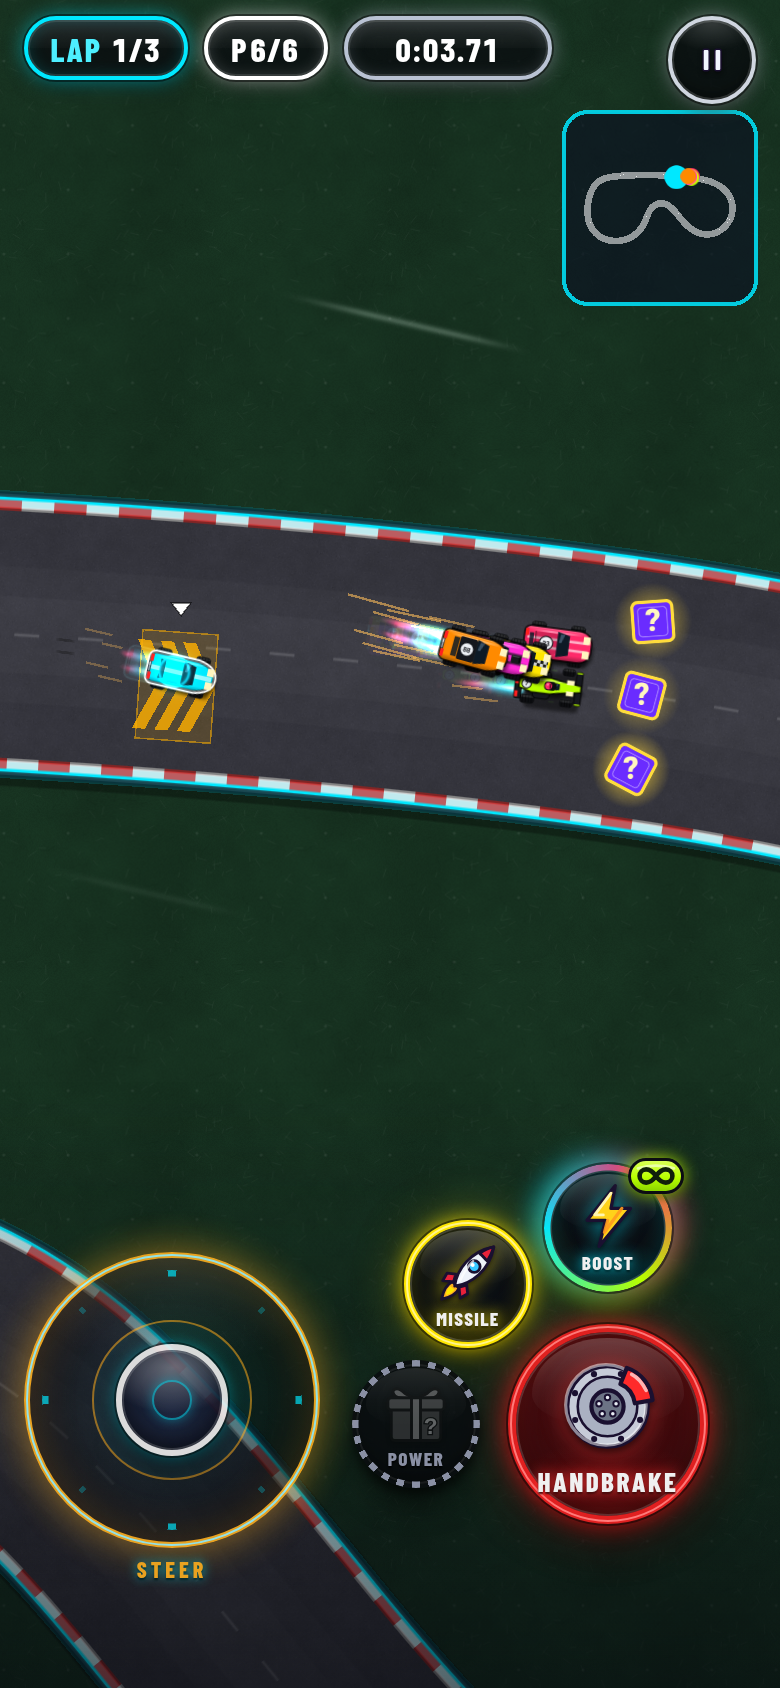
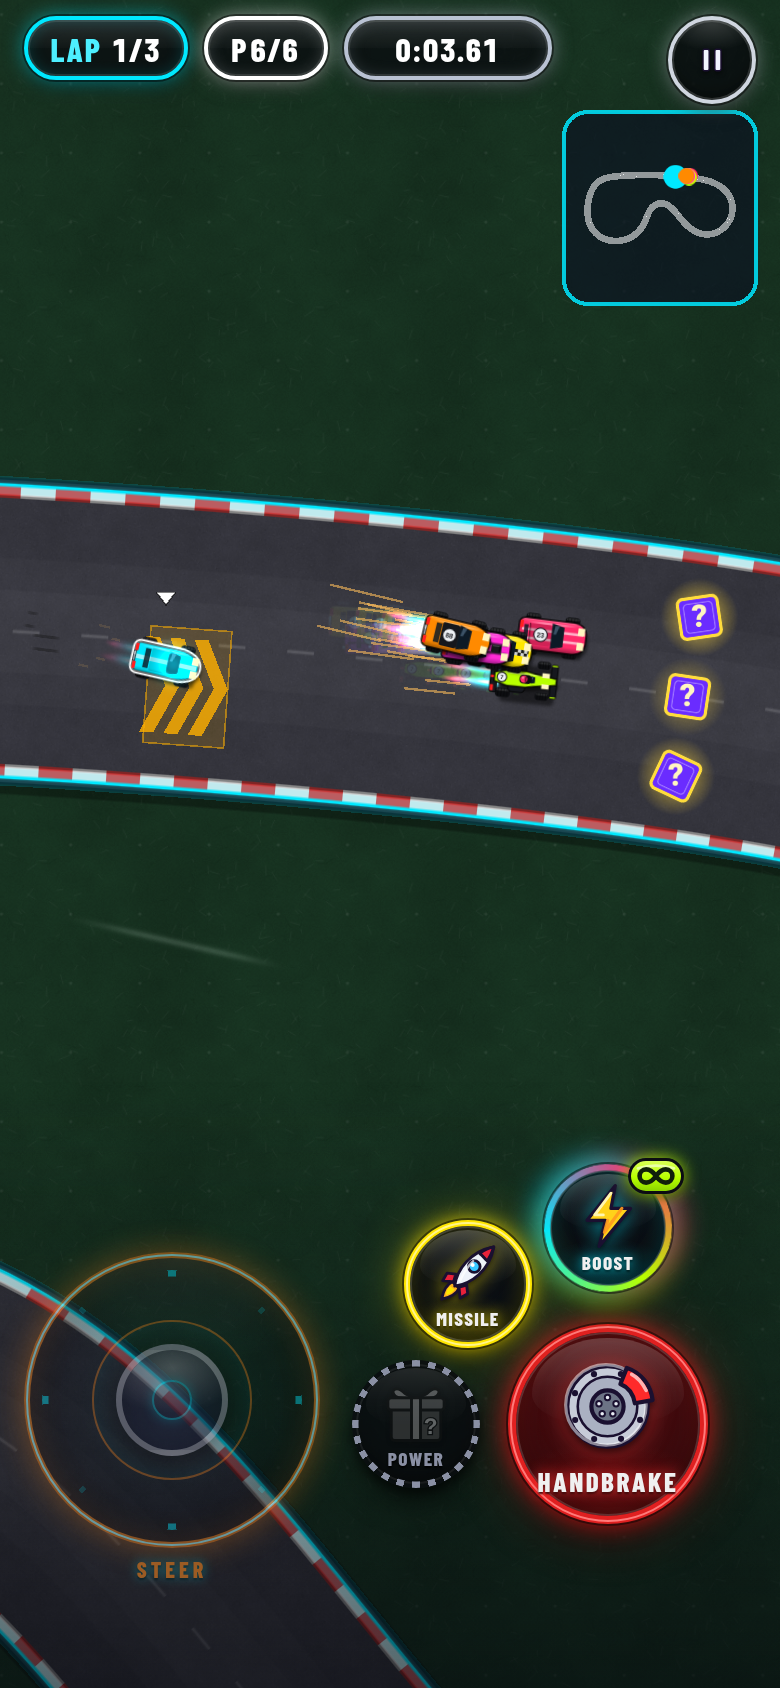
Thumb-off: GD orange, dimmed breathing stick, 350 ms flare, cyan regain flash; steerOff/steerOn sfx

diff --git a/css/style.css b/css/style.css
@@ -386,13 +386,16 @@ canvas.podium { display: block; width: 100%; height: 200px; }
 }
 .tc-aim-label { position: absolute; left: 50%; bottom: -16px; transform: translateX(-50%); font: 900 9px/1 var(--font-display); letter-spacing: 0.12em; color: #00e8ff; pointer-events: none; }
 #app.landscape .tc-aim-label { display: none; }
-/* thumb off the steer ring mid-race: amber until the next touch (3 quick pulses first) + a ghost ring at the lift point */
-.tc-aim-pad.lost { opacity: 0.9; border-color: #ffb020; box-shadow: 0 0 20px rgba(255,176,32,0.6), inset 0 0 22px rgba(255,176,32,0.22); animation: tcLost 0.3s ease-in-out 6 alternate; }
-.tc-aim-pad.lost .tc-aim-ring { border-color: rgba(255,176,32,0.6); }
-.tc-aim-pad.lost .tc-aim-label { color: #ffb020; }
-@keyframes tcLost { from { box-shadow: 0 0 6px rgba(255,176,32,0.3); } to { box-shadow: 0 0 34px rgba(255,176,32,0.95), inset 0 0 26px rgba(255,176,32,0.35); } }
-.tc-aim-ghost { position: absolute; border-radius: 50%; box-sizing: border-box; border: 3px solid #ffb020; box-shadow: 0 0 18px rgba(255,176,32,0.7); pointer-events: none; z-index: 2; animation: tcGhost 0.7s ease-out forwards; }
-@keyframes tcGhost { from { opacity: 1; transform: scale(1); } to { opacity: 0; transform: scale(1.35); } }
+/* thumb off the steer ring mid-race (GD spec): orange #ff8a1f (never MISSILE yellow), stick dimmed to 55 %, knob glow
+   off, ring breathing at 1 Hz until the next touch; a one-off 1.4x flare at the lift point; 120 ms cyan flash on regain */
+.tc-aim-pad.lost { opacity: 0.55; border-color: #ff8a1f; box-shadow: 0 0 18px rgba(255,138,31,0.6), inset 0 0 20px rgba(255,138,31,0.2); animation: tcLost 0.5s ease-in-out infinite alternate; }
+.tc-aim-pad.lost .tc-aim-ring { border-color: rgba(255,138,31,0.6); }
+.tc-aim-pad.lost .tc-aim-knob { box-shadow: 0 2px 8px rgba(0,0,0,0.5); border-color: rgba(242,246,255,0.5); }
+.tc-aim-pad.lost .tc-aim-label { color: #ff8a1f; }
+@keyframes tcLost { from { border-color: rgba(255,138,31,0.5); box-shadow: 0 0 6px rgba(255,138,31,0.25); } to { border-color: rgba(255,138,31,1); box-shadow: 0 0 22px rgba(255,138,31,0.8), inset 0 0 22px rgba(255,138,31,0.3); } }
+.tc-aim-pad.regain { border-color: #7ff6ff; box-shadow: 0 0 30px rgba(0,232,255,0.95), inset 0 0 26px rgba(0,232,255,0.4); transition: none; }
+.tc-aim-ghost { position: absolute; border-radius: 50%; box-sizing: border-box; border: 3px solid #ff8a1f; box-shadow: 0 0 18px rgba(255,138,31,0.7); pointer-events: none; z-index: 2; animation: tcGhost 0.35s ease-out forwards; }
+@keyframes tcGhost { from { opacity: 1; transform: scale(1); } to { opacity: 0; transform: scale(1.4); } }
 
 /* action buttons: the element is the round hit area (visual + up to 12 px, never overlapping a neighbour); .act-vis is the visible disc (--d) */
 .act {

diff --git a/js/input.js b/js/input.js
@@ -1,3 +1,4 @@
+import { sfx } from './audio.js';
 /**
  * Input (v53 'controls'): auto-throttle, so the player only steers, brakes and fires.
  * Touch (mobile-first, see js/controls.js for the data-driven layout):
@@ -69,7 +70,7 @@ export function createInput() {
     const knob = document.getElementById('aim-knob');
     const zone = document.getElementById('steer-zone');
     if (!root || !knob) return;
-    let pid = null, cx = 0, cy = 0, sx = 0, sy = 0; // ring centre (client px), smoothed unit vector
+    let pid = null, cx = 0, cy = 0, sx = 0, sy = 0, regainT = 0; // ring centre (client px), smoothed unit vector
     const DEAD = 0.08;
     const radius = () => Math.max(1, root.clientWidth / 2);
     function setKnob(nx, ny) {
@@ -100,6 +101,7 @@ export function createInput() {
         cy = Math.min(app.bottom - r - 4, Math.max(app.top + r + 4, ev.clientY));
         root.style.translate = `${cx - (rr.left + r)}px ${cy - (rr.top + r)}px`;
       } else { cx = rr.left + rr.width / 2; cy = rr.top + rr.height / 2; }
+      if (root.classList.contains('lost')) { sfx('steerOn'); root.classList.add('regain'); clearTimeout(regainT); regainT = setTimeout(() => root.classList.remove('regain'), 120); }
       root.classList.add('active'); root.classList.remove('lost');
       state.taps.steer++;
       apply(ev.clientX, ev.clientY);
@@ -126,7 +128,7 @@ export function createInput() {
       g.className = 'tc-aim-ghost'; g.style.width = g.style.height = d + 'px';
       g.style.left = (x - tr.left - d / 2) + 'px'; g.style.top = (y - tr.top - d / 2) + 'px';
       g.addEventListener('animationend', () => g.remove()); tc.appendChild(g); setTimeout(() => g.remove(), 1500);
-      buzz(18);
+      buzz(18); sfx('steerOff');
     }
     for (const [el, float] of [[root, true], [zone, true]]) { // spec: any touch in the steer half re-centres the ring
       if (!el) continue;

diff --git a/js/audio.js b/js/audio.js
@@ -75,6 +75,8 @@ export function sfx(name, opts = {}) {
     case 'hit': beep(90, 0.35, 'sawtooth', 0.06, -50); beep(60, 0.3, 'square', 0.04, -30, 0.05); beep(660, 0.12, 'sine', 0.035, 0, 0.16); break;
     case 'miss': beep(200, 0.18, 'triangle', 0.03, -80); break;
     case 'click': beep(300, 0.04, 'square', 0.025, 0, 0, U); break;
+    case 'steerOff': beep(196, 0.07, 'square', 0.018 * 0.7, -30, 0, U); break; // thumb left the steer ring (AE: 'denied' at ~70 %)
+    case 'steerOn': beep(300, 0.04, 'square', 0.025, 0, 0, U); break; // steering taken back (AE: 'click')
     case 'bonus': beep(660, 0.07, 'square', 0.035); beep(880, 0.07, 'square', 0.035, 0, 0.07); beep(1320, 0.12, 'sine', 0.04, 0, 0.14); break;
     case 'power': beep(300, 0.25, 'sawtooth', 0.035, 600); break;
     case 'autopilot': beep(740, 0.12, 'sine', 0.04, 0, 0.12); beep(990, 0.18, 'sine', 0.04, 0, 0.24); break;
